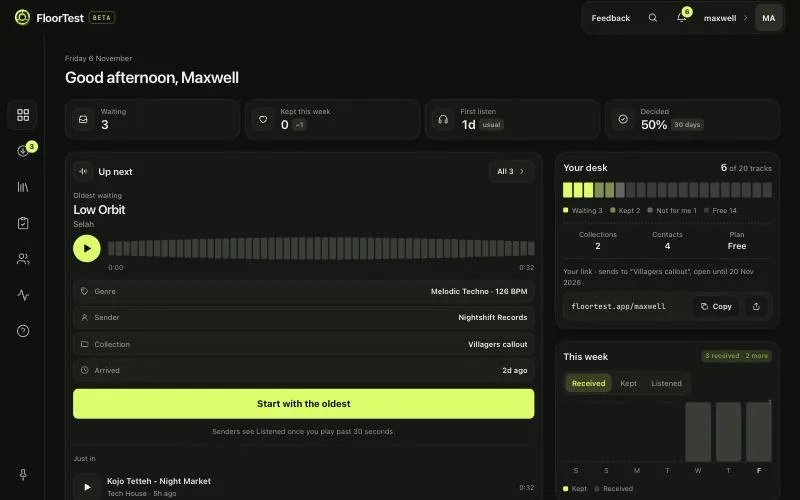
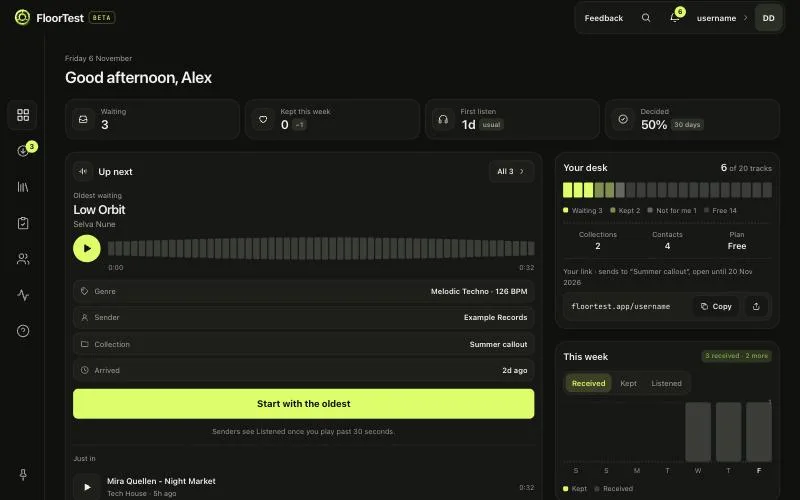
fix: tour pictures from a made-up demo desk; tests for who gets marked (Safety on #451)
Owner (6 Nov, via Safety): re-shoot with demo data; any link reads floortest.app/username.
- public/tour/*.webp re-shot on a fictional desk (Demo Desk, Alex, made-up senders
  and callouts, no photo), each checked by eye.
- markTourSeenFor (src/lib/tour-seen.ts) holds the write; the action passes only
  requirePerson()'s id. Test: on a team desk only the person's row changes.
- A failed save never throws (the tour just opens once more).
- Account row uses the same help icon as the sidebar.

diff --git a/tests/tour.test.ts b/tests/tour.test.ts
@@ -24,6 +24,8 @@ test("the tour: five steps with a real picture each, ending on Share your link, 
   assert.equal(tourTip("label_radio"), null, "an old or unknown type gets no tip");
   assert.equal(tourTip(null), null);
   assert.equal(tourTip("constructor"), null);
+  // Owner, 6 Nov: never the owner's link; any link in the tour reads exactly floortest.app/username.
+  for (const m of JSON.stringify({ TOUR_STEPS, TOUR_FINISH, TOUR_TIPS, TOUR_HABITS }).matchAll(/floortest\.app\/[a-z0-9_-]*/gi)) assert.equal(m[0], "floortest.app/username");
   // Brand voice (docs/brand-voice.md): no exclamation marks or square brackets, Keep / Not for me, "track" not "song".
   const strings = (v: unknown): string[] => (typeof v === "string" ? [v] : v && typeof v === "object" ? Object.values(v).flatMap(strings) : []);
   const words = strings({ TOUR_STEPS, TOUR_FINISH, TOUR_TIPS, TOUR_HABITS }).join("\n");
@@ -37,10 +39,15 @@ test("the tour opens once per person, never in an admin's view, and closing it m
   assert.match(floor, /\{tourDue && <FirstVisitTour tip=\{tourTip\(user\.kind\)\} \/>\}/);
   const desk = read("../src/app/dashboard/actions/desk.ts");
   const fn = desk.slice(desk.indexOf("export async function markTourSeen(")).split("\nexport ")[0];
-  assert.match(fn, /const me = await requirePerson\(\);\s*await q\.run\("UPDATE users SET tour_seen_at = \? WHERE id = \? AND tour_seen_at IS NULL", now\(\), me\.id\);/, "the signed-in person's own row only");
+  assert.match(fn, /^[^]*?\{\s*(\/\/[^\n]*\n\s*)*const me = await requirePerson\(\);\s*await markTourSeenFor\(me\.id\);\s*\}/, "the signed-in person, never the desk, and nothing else");
+  // requirePerson: the person behind the session; in an admin's read-only view there is none, so it redirects first.
+  const auth = read("../src/lib/auth.ts");
+  const person = auth.slice(auth.indexOf("export async function requirePerson(")).split("\nexport ")[0];
+  assert.match(person, /const u = await currentPerson\(\);\s*if \(!u && \(await viewingAs\(\)\)\) redirect\(/, "view-as redirects before anything is written");
+  assert.match(read("../src/app/dashboard/how-it-works/page.tsx"), /export default async function HowItWorks\(\) \{\s*const user = await requireUser\(\);/, "the page needs a signed-in desk");
   assert.match(read("../scripts/check-desk-roles.ts"), /markTourSeen: "person"/);
   const tour = read("../src/app/dashboard/Tour.tsx");
-  assert.match(tour, /onClose=\{\(\) => \{\s*setOpen\(false\);\s*void markTourSeen\(\);/, "any close (X, Escape, Skip, finish) marks it seen");
+  assert.match(tour, /onClose=\{\(\) => \{\s*setOpen\(false\);[^]*?markTourSeen\(\)\.catch\(\(\) => undefined\);/, "any close (X, Escape, Skip, finish) marks it seen, and a failed save never throws");
   assert.match(read("../src/app/dashboard/Sidebar.tsx"), /href: "\/dashboard\/how-it-works", label: "How it works"/);
   assert.match(read("../src/app/dashboard/account/page.tsx"), /<Row href="\/dashboard\/how-it-works"/);
 });
@@ -54,4 +61,22 @@ test("0133: accounts from before see no pop-up; new accounts get it once", async
   assert.ok((await q.get<{ t: number | null }>("SELECT tour_seen_at AS t FROM users WHERE handle = 'oldtour'"))!.t, "existing account marked seen");
   await q.run("INSERT INTO users (email, password_hash, name, handle, created_at) VALUES ('new@x.io', 'h', 'new', 'newtour', 2)");
   assert.equal((await q.get<{ t: number | null }>("SELECT tour_seen_at AS t FROM users WHERE handle = 'newtour'"))!.t, null, "a new account sees the tour");
+});
+
+test("marking the tour seen changes only the person's own row, not the team desk they work on or anyone else", async () => {
+  const { q } = await import("../src/lib/db");
+  const { markTourSeenFor } = await import("../src/lib/tour-seen");
+  const add = async (handle: string) => (await q.get<{ id: number }>("INSERT INTO users (email, password_hash, name, handle, created_at) VALUES (?, 'h', ?, ?, 3) RETURNING id", `${handle}@x.io`, handle, handle))!.id;
+  const a = await add("tourpersona");
+  const b = await add("tourpersonb");
+  const desk = await add("tourteamdesk");
+  await q.run("INSERT INTO account_members (account_id, user_id, role, created_at) VALUES (?, ?, 'member', 3)", desk, a);
+  const seen = async (id: number) => (await q.get<{ t: number | null }>("SELECT tour_seen_at AS t FROM users WHERE id = ?", id))!.t;
+  await markTourSeenFor(a);
+  const first = await seen(a);
+  assert.ok(first, "A marked");
+  assert.equal(await seen(desk), null, "the team desk A works on stays unmarked");
+  assert.equal(await seen(b), null, "B stays unmarked");
+  await markTourSeenFor(a);
+  assert.equal(await seen(a), first, "a second close keeps the first time");
 });

diff --git a/src/app/dashboard/actions/desk.ts b/src/app/dashboard/actions/desk.ts
@@ -10,6 +10,7 @@ import { audit } from "@/lib/audit";
 import { closeFeedbackAskFor, fileFeedback, markFeedbackAsked } from "@/lib/feedback";
 import { sendReopenAlerts } from "@/lib/reopen";
 import { done } from "./common";
+import { markTourSeenFor } from "@/lib/tour-seen";
 
 /** Beta feedback, signed by the person who sent it (src/lib/feedback.ts). */
 export async function sendFeedback(kind: string, message: string, path: string, fromAsk = false, viewport?: number) {
@@ -33,8 +34,9 @@ export async function dismissOnboarding() {
 /** The first-visit tour was closed or finished: it never opens by itself again for this person (their own row, not the
  * desk's, so each teammate gets it once). How FloorTest works replays it any time. */
 export async function markTourSeen() {
+  // requirePerson: the signed-in person, never the team desk they're working on; in an admin's view it redirects first.
   const me = await requirePerson();
-  await q.run("UPDATE users SET tour_seen_at = ? WHERE id = ? AND tour_seen_at IS NULL", now(), me.id);
+  await markTourSeenFor(me.id);
 }
 
 export type { ReceiverLookup } from "@/lib/receiver-lookup";

diff --git a/src/app/dashboard/account/page.tsx b/src/app/dashboard/account/page.tsx
@@ -210,7 +210,7 @@ export default async function Account() {
               {referralsOn && <Row href="/dashboard/referrals" icon="plus" title="Referrals" sub="Invite DJs · get more active tracks" />}
             </Group>
             <Group id="about-h" title="About FloorTest">
-              <Row href="/dashboard/how-it-works" icon="music" title="How FloorTest works" sub="The tour, and how to get the most out of your desk" />
+              <Row href="/dashboard/how-it-works" icon="help" title="How FloorTest works" sub="The tour, and how to get the most out of your desk" />
               <Row href="/contact" icon="mail" title="Contact us" external />
               {/* The in-app form, filed to the Feedback page with this page's path (1 Nov; it used to open /contact as "General"). */}
               <SendFeedbackRow>

diff --git a/src/lib/tour-seen.ts b/src/lib/tour-seen.ts
@@ -1,0 +1,11 @@
+import "server-only";
+import { now, q } from "./db";
+
+/**
+ * The tour was closed or finished: it never opens by itself again for this person. Takes the signed-in person's own id
+ * (never a team desk's), so each teammate gets the tour once and a desk row is never marked. Kept out of the server action
+ * so it can be tested without a request (tests/tour.test.ts); the action only works out who the person is.
+ */
+export async function markTourSeenFor(personId: number) {
+  await q.run("UPDATE users SET tour_seen_at = ? WHERE id = ? AND tour_seen_at IS NULL", now(), personId);
+}

diff --git a/src/components/Kit.tsx b/src/components/Kit.tsx
@@ -40,6 +40,7 @@ const ICONS = {
   shield: <path d="M12 3.5 19 6v6c0 4.5-3.2 7.5-7 8.5-3.8-1-7-4-7-8.5V6z" />,
   card: <><rect x="3.5" y="6" width="17" height="12" rx="2.5" /><path d="M3.5 10h17" /></>,
   link: <><path d="M10 14a4 4 0 0 0 5.7 0l3-3a4 4 0 0 0-5.7-5.7l-1 1" /><path d="M14 10a4 4 0 0 0-5.7 0l-3 3a4 4 0 0 0 5.7 5.7l1-1" /></>,
+  help: <><circle cx="12" cy="12" r="10" /><path d="M9.1 9a3 3 0 0 1 5.8 1c0 2-3 3-3 3M12 17h.01" /></>,
   music: <><path d="M9 18V5.5l10-2V16" /><circle cx="6.5" cy="18" r="2.5" /><circle cx="16.5" cy="16" r="2.5" /></>,
 } as const;
 

diff --git a/src/app/dashboard/Tour.tsx b/src/app/dashboard/Tour.tsx
@@ -102,7 +102,9 @@ export function FirstVisitTour({ tip }: { tip: string | null }) {
       tip={tip}
       onClose={() => {
         setOpen(false);
-        void markTourSeen();
+        // If saving fails (offline, signed out), the only effect is that the tour opens once more next visit, so the
+        // close itself never waits on it or shows an error.
+        markTourSeen().catch(() => undefined);
       }}
     />
   );

diff --git a/src/lib/tour.ts b/src/lib/tour.ts
@@ -16,7 +16,7 @@ export const TOUR_STEPS: TourStep[] = [
       "Each sender gets an honest receipt: Delivered, Listened, Downloaded, Played out.",
     ],
     image: "/tour/link.webp",
-    alt: "A FloorTest link page: the callout brief and a Choose WAV or MP3 button",
+    alt: "A demo link page: the callout brief and a Choose WAV or MP3 button",
   },
   {
     id: "floor",
